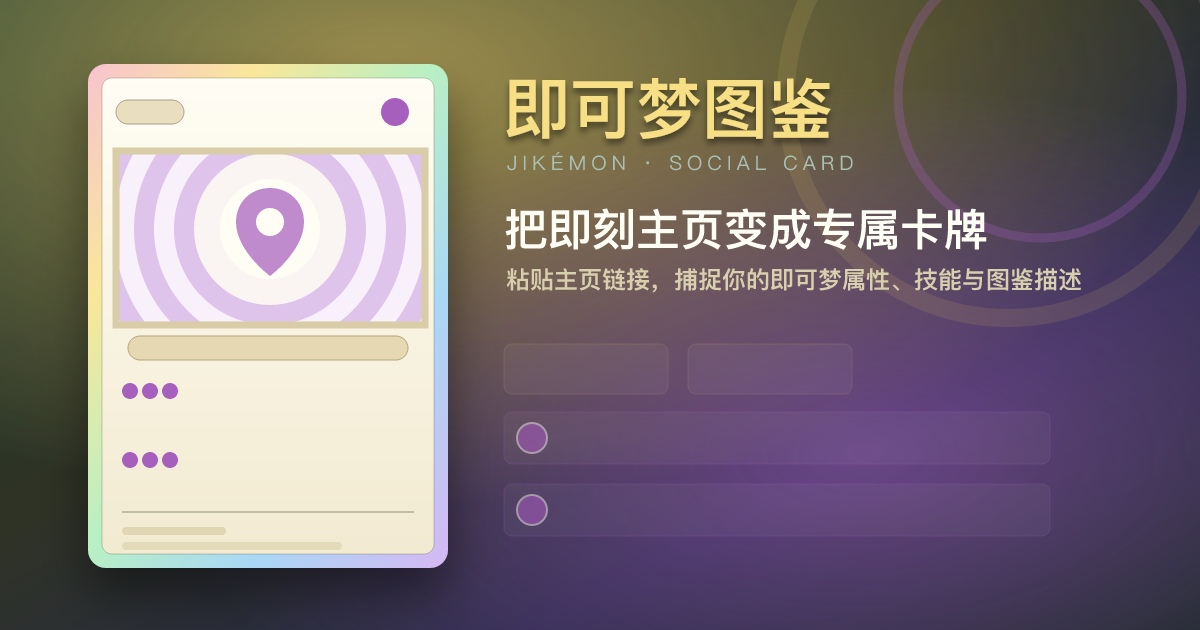
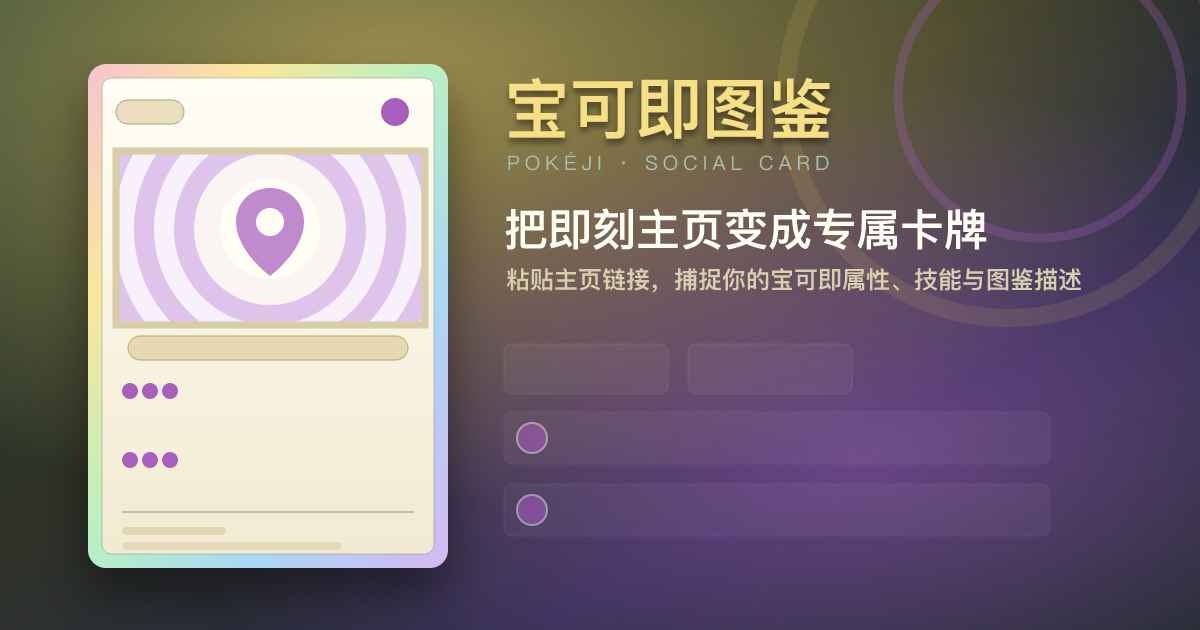
rebrand: migrate domain to pokeji.com and rename to Pokéji / 宝可即

Changed region(s): [[0.4008, 0.1206, 0.7092, 0.2714], [0.6475, 0.4222, 0.7092, 0.4524]]

diff --git a/public/app.js b/public/app.js
@@ -214,7 +214,7 @@ function updateHomeActions() {
   if (exportGroup) exportGroup.hidden = !currentCard;
 }
 
-// 首页「即可梦对战」入口：带着当前卡牌（若有）进入对战页左侧，右侧留空等待挑战者
+// 首页「宝可即对战」入口：带着当前卡牌（若有）进入对战页左侧，右侧留空等待挑战者
 duelEntryBtn?.addEventListener('click', () => {
   if (exportBusy || currentMode === 'duel') return;
   duelSides.left = currentProfileData || null;
@@ -383,7 +383,7 @@ function renderMysteryCardInto(el, hint) {
         <span class="type-orb" style="--type-color:#b7b1a1">?</span>
       </div>
       <div class="card-art"><div class="mystery-q">?</div></div>
-      <div class="card-info">即可梦连接 ｜ 关注 ??　　被关注 ??　　获赞 ??</div>
+      <div class="card-info">宝可即连接 ｜ 关注 ??　　被关注 ??　　获赞 ??</div>
       <div class="moves">
         ${[0, 1]
           .map(
@@ -404,14 +404,14 @@ function renderMysteryCardInto(el, hint) {
         <div class="cb-cell"><b>网感</b><span class="cb-val">?</span></div>
       </div>
       <p class="card-flavor mystery-hint">${hint}</p>
-      <div class="card-foot"><span>No.????</span><span>illus. JIKÉMON</span><span class="rarity-mark">?</span></div>
+      <div class="card-foot"><span>No.????</span><span>illus. POKÉJI</span><span class="rarity-mark">?</span></div>
     </div>
   `;
 }
 
 // 抓取前的首页神秘占位卡：中央浮着抓取按钮，吸引用户开卡
 function renderPlaceholder() {
-  renderMysteryCardInto(cardEl, '在上方粘贴你的即刻主页链接，点击中央「捕捉」，开启属于你的专属即可梦。');
+  renderMysteryCardInto(cardEl, '在上方粘贴你的即刻主页链接，点击中央「捕捉」，开启属于你的专属宝可即。');
 }
 
 // 把十六进制色与白色按比例混合，返回具体 rgb()。
@@ -514,7 +514,7 @@ function cardMarkup(c) {
       <p class="card-flavor">${esc(c.flavor)}</p>
       <div class="card-foot">
         <span>${esc(c.cardNo)}</span>
-        <span>illus. JIKÉMON</span>
+        <span>illus. POKÉJI</span>
         <span class="rarity-mark">${c.rarity.key} · ${c.rarity.label}</span>
       </div>
     </div>
@@ -561,7 +561,7 @@ function renderDossier(c) {
     })
     .join('<br/>');
   dossier.innerHTML = `
-    <h2>即可梦档案<span class="dossier-en">INFO</span></h2>
+    <h2>宝可即档案<span class="dossier-en">INFO</span></h2>
     <dl>
       <dt>名称</dt><dd><b>${esc(c.name)}</b>${
         c.username && !/^[0-9a-f]{8}-[0-9a-f-]{27}$/i.test(c.username) ? `（@${esc(c.username)}）` : ''
@@ -612,9 +612,9 @@ function setupDuelChrome() {
   document.body.classList.add('is-duel-page');
   const titleEl = document.querySelector('.masthead h1');
   const subEl = document.querySelector('.masthead .sub');
-  if (titleEl) titleEl.textContent = '即可梦决斗';
-  if (subEl) subEl.textContent = 'JIKÉMON DUEL';
-  document.title = '即可梦决斗 · Jikémon DUEL';
+  if (titleEl) titleEl.textContent = '宝可即决斗';
+  if (subEl) subEl.textContent = 'POKÉJI DUEL';
+  document.title = '宝可即决斗 · Pokéji DUEL';
   form.hidden = true;
   actions.hidden = true;
   dossier.hidden = true;
@@ -664,7 +664,7 @@ async function loadDuelRoute(leftId, rightId) {
   arena.innerHTML = `
     <section class="duel-loading" role="status" aria-live="polite">
       <span class="catch-ball" aria-hidden="true"></span>
-      <strong>正在捕捉双方即可梦</strong>
+      <strong>正在捕捉双方宝可即</strong>
     </section>
   `;
 
@@ -696,7 +696,7 @@ function renderDuelData(data, leftFallback, rightFallback) {
   const canonicalLeft = data.left?.user?.username || left.username || extractId(leftFallback);
   const canonicalRight = data.right?.user?.username || right.username || extractId(rightFallback);
   history.replaceState(null, '', `/u/${canonicalLeft}/vs/${canonicalRight}`);
-  document.title = `${left.name} vs ${right.name} · 即可梦决斗`;
+  document.title = `${left.name} vs ${right.name} · 宝可即决斗`;
   renderDuel(duel);
 }
 
@@ -705,10 +705,10 @@ function duelProfileUrl(card) {
 }
 
 // 对战单侧：card 为空时渲染问号空位（卡上浮「挑战」按钮 + 常显链接输入框），
-// 有卡时渲染真卡 + 「更换即可梦」按钮（点击重置回问号空位）+ 隐藏的输入框
+// 有卡时渲染真卡 + 「更换宝可即」按钮（点击重置回问号空位）+ 隐藏的输入框
 function duelSideMarkup(side, card) {
   const name = side === 'left' ? 'Left' : 'Right';
-  const label = side === 'left' ? '左侧即可梦主页链接' : '右侧即可梦主页链接';
+  const label = side === 'left' ? '左侧宝可即主页链接' : '右侧宝可即主页链接';
   const metaHtml = card
     ? `<strong>${esc(card.name)}</strong><span>${card.type.icon} ${card.type.name}系 · ${card.rarity.key}</span>`
     : '<strong>神秘挑战者</strong><span>？？系 · ?</span>';
@@ -717,7 +717,7 @@ function duelSideMarkup(side, card) {
     <div class="duel-card-side duel-card-side--${side}">
       ${
         card
-          ? `<button class="duel-swap-btn" id="duel${name}SwapBtn" data-duel-side="${side}" type="button">↻ 更换即可梦</button>`
+          ? `<button class="duel-swap-btn" id="duel${name}SwapBtn" data-duel-side="${side}" type="button">↻ 更换宝可即</button>`
           : ''
       }
       <form class="seeker duel-seeker${card ? ' is-hidden' : ''}" id="duel${name}Form" data-duel-side="${side}" aria-label="${label}">
@@ -753,14 +753,14 @@ function mountDuelSide(side, card) {
   const cardHost = $(`duel${name}Card`);
   if (!cardHost) return;
   if (card) renderCardElement(cardHost, card, { reveal: true });
-  else renderMysteryCardInto(cardHost, '在下方粘贴即刻主页链接，点击「挑战」召唤这只即可梦。');
+  else renderMysteryCardInto(cardHost, '在下方粘贴即刻主页链接，点击「挑战」召唤这只宝可即。');
   attachTilt($(`duel${name}Tilt`), cardHost);
   $(`duel${name}Form`)?.addEventListener('submit', handleDuelSideSubmit);
   $(`duel${name}ChallengeBtn`)?.addEventListener('click', () => $(`duel${name}Form`)?.requestSubmit());
   $(`duel${name}SwapBtn`)?.addEventListener('click', () => resetDuelSide(side));
 }
 
-// 「更换即可梦」：该侧重置为问号空位（原链接留在输入框里方便改），对决面板回到待命态
+// 「更换宝可即」：该侧重置为问号空位（原链接留在输入框里方便改），对决面板回到待命态
 function resetDuelSide(side) {
   if (duelLoading) return;
   duelLoadSeq++;
@@ -784,12 +784,12 @@ function renderDuelPending() {
     !left && !right
       ? '两侧各粘贴一位即友的即刻主页链接，点击「挑战」开始对决。'
       : `在${left ? '右' : '左'}侧粘贴对手的即刻主页链接，点击「挑战」开始对决。`;
-  document.title = '即可梦决斗 · Jikémon DUEL';
+  document.title = '宝可即决斗 · Pokéji DUEL';
   arena.className = 'arena duel-arena';
   arena.innerHTML = `
     <section class="duel-shell">
       ${duelSideMarkup('left', left)}
-      <section class="duel-board duel-board--pending" aria-label="即可梦决斗设置">
+      <section class="duel-board duel-board--pending" aria-label="宝可即决斗设置">
         <p class="duel-kicker">Final Result</p>
         <div class="duel-score"><span>?</span><b>V.S.</b><span>?</span></div>
         <h2 id="duelWinnerTitle">等待挑战者</h2>
@@ -811,7 +811,7 @@ function renderDuel(duel) {
     <section class="duel-shell">
       ${duelSideMarkup('left', duel.left)}
 
-      <section class="duel-board ${winnerClass}" aria-label="即可梦决斗结果">
+      <section class="duel-board ${winnerClass}" aria-label="宝可即决斗结果">
         <p class="duel-kicker">Final Result</p>
         <div class="duel-score">
           <span id="duelScoreLeft">0</span>
@@ -1101,7 +1101,7 @@ function shouldUseMobileExportPreview() {
 
 function exportFileName() {
   const no = (currentCardNo.match(/\d+/) || [])[0];
-  return no ? `jikemon-card-${no}.png` : 'jikemon-card.png';
+  return no ? `pokeji-card-${no}.png` : 'pokeji-card.png';
 }
 
 function canvasToPngBlob(canvas) {
@@ -1454,7 +1454,7 @@ function roundRectPath(ctx, x, y, w, h, r) {
 
 // 把卡片矢量图合成到竖版分享图上。
 // variant = 'full'：图鉴海报（深色背景 + 背光 + 顶部标题 + 卡牌与右侧档案 + 底部特质/网址）
-// variant = 'plain'：纯卡牌（小边距，仅卡牌本体 + 下方金色 JIKÉMON）
+// variant = 'plain'：纯卡牌（小边距，仅卡牌本体 + 下方金色 POKÉJI）
 async function composeExport(cardImg, artAssets = {}, variant = 'full', dossierImg = null, snapshot) {
   const S = 3; // 输出倍率
   const CW = 366, CH = 512; // 卡片逻辑尺寸
@@ -1555,16 +1555,16 @@ async function composeExport(cardImg, artAssets = {}, variant = 'full', dossierI
   const footY = cardY + CH + GAP_BOT;
 
   if (!full) {
-    // 纯卡牌版：仅在卡下方居中一个金色 JIKÉMON
+    // 纯卡牌版：仅在卡下方居中一个金色 POKÉJI
     ctx.font = '900 15px "M PLUS Rounded 1c", "Noto Sans SC", sans-serif';
     setLS('4px');
     ctx.fillStyle = '#e8c565';
-    ctx.fillText('JIKÉMON', cx, footY + 14);
+    ctx.fillText('POKÉJI', cx, footY + 14);
     setLS('0px');
     return cv;
   }
 
-  // 顶部标题「即可梦图鉴」（金色渐变 + 轻投影）
+  // 顶部标题「宝可即图鉴」（金色渐变 + 轻投影）
   ctx.font = '44px "ZCOOL QingKe HuangYou", sans-serif';
   setLS('6px');
   const tg = ctx.createLinearGradient(0, TOP + 22, 0, TOP + 72);
@@ -1574,7 +1574,7 @@ async function composeExport(cardImg, artAssets = {}, variant = 'full', dossierI
   ctx.shadowColor = 'rgba(0,0,0,0.4)';
   ctx.shadowBlur = 8;
   ctx.shadowOffsetY = 3;
-  ctx.fillText('即可梦图鉴', cx, TOP + 62);
+  ctx.fillText('宝可即图鉴', cx, TOP + 62);
   ctx.shadowColor = 'transparent';
   ctx.shadowBlur = 0;
   ctx.shadowOffsetY = 0;
@@ -1583,7 +1583,7 @@ async function composeExport(cardImg, artAssets = {}, variant = 'full', dossierI
   ctx.font = '14px "Noto Sans SC", sans-serif';
   setLS('3px');
   ctx.fillStyle = '#9db8a7';
-  ctx.fillText('JIKÉMON · 把你的即刻主页变成专属卡牌', cx, TOP + 100);
+  ctx.fillText('POKÉJI · 把你的即刻主页变成专属卡牌', cx, TOP + 100);
 
   // 底部：特质关键词 + 网址
   ctx.font = '900 22px "Noto Sans SC", sans-serif';
@@ -1594,7 +1594,7 @@ async function composeExport(cardImg, artAssets = {}, variant = 'full', dossierI
   ctx.font = '12px "M PLUS Rounded 1c", "Noto Sans SC", sans-serif';
   setLS('0px');
   ctx.fillStyle = '#e8c565';
-  ctx.fillText('web.jikemon.com', cx, footY + 82);
+  ctx.fillText('web.pokeji.com', cx, footY + 82);
 
   setLS('0px');
   return cv;
@@ -1693,7 +1693,7 @@ async function exportCardImage(btn, idleText, variant = 'plain') {
   }
 }
 
-// 导出卡牌：纯卡牌版（小边距 + 金色 JIKÉMON）
+// 导出卡牌：纯卡牌版（小边距 + 金色 POKÉJI）
 $('download').addEventListener('click', () => exportCardImage($('download'), '导出卡牌', 'plain'));
 
 /* ---- 导出下拉菜单：复制卡牌 / 复制链接 / 导出图鉴 ---- */

diff --git a/public/index.html b/public/index.html
@@ -3,7 +3,7 @@
 <head>
   <meta charset="UTF-8" />
   <meta name="viewport" content="width=device-width, initial-scale=1" />
-  <title>即可梦图鉴 · Jikémon</title>
+  <title>宝可即图鉴 · Pokéji</title>
   <link rel="icon" type="image/svg+xml" href="/favicon.svg" />
   <link rel="preconnect" href="https://fonts.googleapis.com" />
   <link rel="preconnect" href="https://fonts.gstatic.com" crossorigin />
@@ -17,9 +17,9 @@
 <body>
   <div class="stage">
     <header class="masthead">
-      <a class="pokeball" href="https://web.jikemon.com/" aria-label="返回首页"></a>
-      <h1>即可梦图鉴</h1>
-      <p class="sub">JIKÉMON · 把你的即刻主页变成专属卡牌</p>
+      <a class="pokeball" href="https://web.pokeji.com/" aria-label="返回首页"></a>
+      <h1>宝可即图鉴</h1>
+      <p class="sub">POKÉJI · 把你的即刻主页变成专属卡牌</p>
     </header>
 
     <form id="form" class="seeker">
@@ -48,7 +48,7 @@
     </main>
 
     <div class="actions" id="actions" hidden>
-      <button id="duelEntryBtn" class="duel-entry-btn" type="button">即可梦对战 ⚔</button>
+      <button id="duelEntryBtn" class="duel-entry-btn" type="button">宝可即对战 ⚔</button>
       <div class="export-group" id="exportGroup">
         <button id="download">导出卡牌</button>
         <button
@@ -88,7 +88,7 @@
 
     <footer class="colophon">
       <p class="brand">
-        JIKEMON.COM © 2026 · Build by
+        POKEJI.COM © 2026 · Build by
         <a href="https://web.okjike.com/u/9db4da53-3af2-4214-ab41-7a2a9930685a" target="_blank" rel="noreferrer">@yishan</a>
       </p>
       <p class="disclaimer">

diff --git a/public/card.js b/public/card.js
@@ -344,7 +344,7 @@ export function buildCard({ user, posts }) {
     respected,
     respectBonus,
     cardNo: `No.${String(createdAt.getMonth() + 1).padStart(2, '0')}${String(createdAt.getDate()).padStart(2, '0')}`,
-    infoLine: `即可梦连接 ｜ 关注 ${fmt(following)}　　被关注 ${fmt(followers)}　　获赞 ${fmt(liked)}`,
+    infoLine: `宝可即连接 ｜ 关注 ${fmt(following)}　　被关注 ${fmt(followers)}　　获赞 ${fmt(liked)}`,
     isVerified: !!user.isVerified,
     isSponsor: !!user.isSponsor,
     metrics: { followers, liked, years: years.toFixed(1), postsPerDay: postsPerDay.toFixed(1), picRatio, avgLikes: avgLikes.toFixed(1), evoScore: Math.round(evoScore * 100) },
@@ -514,7 +514,7 @@ function buildFlavor({ createdAt, type, postsPerDay, handSpeed, picRatio, follow
     ? `面对本命圈子「${weaknessTopic}」毫无抵抗力${resistance ? `，却对${resistance.name}系内容自动免疫` : ''}。`
     : '';
   const praise = respected > 0 ? `曾被夸夸 ${respected} 次，攻击力因此强化。` : '';
-  return `自 ${createdAt.getFullYear()} 年起栖息于即刻森林的${type.name}系即可梦。${freq}。${soft}${praise}其${trait || '魅力'}已吸引 ${fmt(followers)} 个即可梦慕名连接。`;
+  return `自 ${createdAt.getFullYear()} 年起栖息于即刻森林的${type.name}系宝可即。${freq}。${soft}${praise}其${trait || '魅力'}已吸引 ${fmt(followers)} 个宝可即慕名连接。`;
 }
 
 function activityTier(postsPerDay) {

diff --git a/server.js b/server.js
@@ -241,9 +241,9 @@ function buildMetaTags(req) {
   const imageUrl = new URL('/og.png', base).href;
   const pathname = new URL(req.url, base).pathname;
   const isDuel = /^\/vs\/?$/.test(pathname) || /^\/u\/[\w-]+\/vs(\/[\w-]+)?\/?$/.test(pathname);
-  const title = isDuel ? '即可梦决斗 · Jikémon DUEL' : '即可梦图鉴 · Jikémon';
+  const title = isDuel ? '宝可即决斗 · Pokéji DUEL' : '宝可即图鉴 · Pokéji';
   const description = isDuel
-    ? '两位即友的专属即可梦卡牌决斗。'
+    ? '两位即友的专属宝可即卡牌决斗。'
     : '把你的即刻主页变成一张宝可梦风格的收藏卡牌。';
   return [
     `<link rel="canonical" href="${attr(pageUrl)}" />`,
